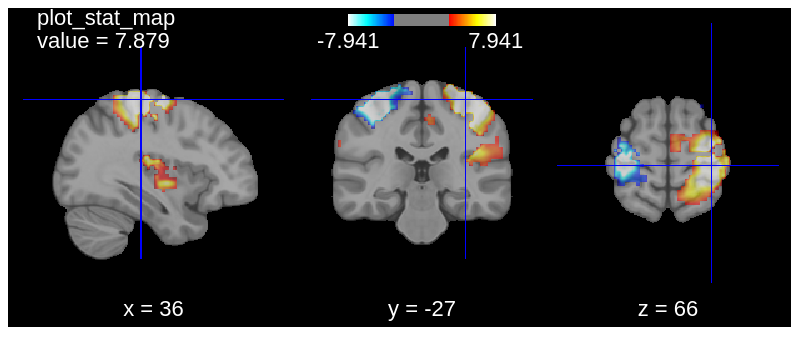
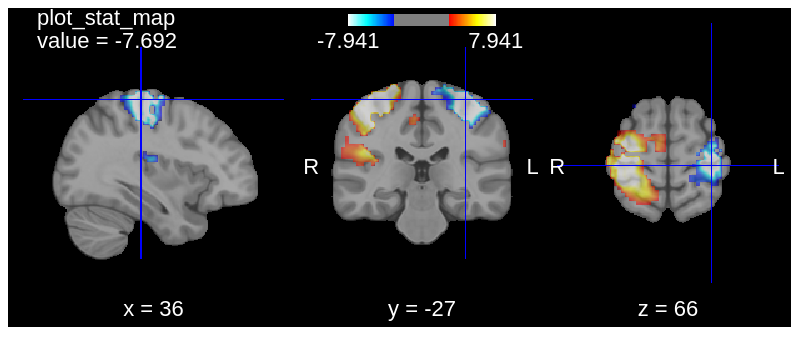
[ENH] Left Right Labels and accomodation of radiological view (#106)
* Update brainsprite.js

Added Left Right labels and Radiological view

* Update brainsprite.js

* Update brainsprite.min.js

minified version of updated brainsprite.js

* rm

* update minified

* update python tests

* modify example

* update

* fix

* recreate

* Update brainsprite.py

added radiological flipping in the python code

* Update brainsprite.py

passed radiological parameter from viewer substitute to data_to_sprite function

* doc

* fix

* update doc

* save image diff

---------

diff --git a/src/brainsprite/data/js/brainsprite.min.js b/src/brainsprite/data/js/brainsprite.min.js
@@ -1,2 +1,2 @@
 /*! brainsprite v0.14.3 */
-function displayFloat(t,e){var a=parseFloat(t).toFixed(e);return a.indexOf(".")===-1?a+".":a.replace(/0+$/,"")}function initBrain(t){var e={smooth:!1,flagValue:!1,colorBackground:"#000000",flagCoordinates:!1,origin:{X:0,Y:0,Z:0},voxelSize:1,affine:!1,heightColorBar:.04,sizeFont:.075,colorFont:"#FFFFFF",nbDecimals:3,crosshair:!1,colorCrosshair:"#0000FF",sizeCrosshair:.9,title:!1,numSlice:!1,onclick:""},a=Object.assign({},e,t);return typeof a.affine=="boolean"&&a.affine===!1&&(a.affine=[[a.voxelSize,0,0,-a.origin.X],[0,a.voxelSize,0,-a.origin.Y],[0,0,a.voxelSize,-a.origin.Z],[0,0,0,1]]),a.flagCoordinates?a.spaceFont=.1:a.spaceFont=0,a.coordinatesSlice={X:0,Y:0,Z:0},a.widthCanvas={X:0,Y:0,Z:0,max:0},a.heightCanvas={X:0,Y:0,Z:0,max:0},a}function initCanvas(t,e){return t.canvas=document.getElementById(e),t.context=t.canvas.getContext("2d"),t.context.imageSmoothingEnabled=t.smooth,t.canvasY=document.createElement("canvas"),t.contextY=t.canvasY.getContext("2d"),t.canvasZ=document.createElement("canvas"),t.contextZ=t.canvasZ.getContext("2d"),t.canvasRead=document.createElement("canvas"),t.contextRead=t.canvasRead.getContext("2d"),t.canvasRead.width=1,t.canvasRead.height=1,t.planes={},t.planes.canvasMaster=document.createElement("canvas"),t.planes.contextMaster=t.planes.canvasMaster.getContext("2d"),t}function initSprite(t,e,a){return t.sprite=document.getElementById(e),t.nbCol=t.sprite.width/a.Y,t.nbRow=t.sprite.height/a.Z,t.nbSlice={X:typeof a.X<"u"?a.X:t.nbCol*t.nbRow,Y:a.Y,Z:a.Z},t.numSlice===!1&&(t.numSlice={X:Math.floor(t.nbSlice.X/2),Y:Math.floor(t.nbSlice.Y/2),Z:Math.floor(t.nbSlice.Z/2)}),t}function initOverlay(t,e,a){return t.overlay.opacity=typeof t.overlay.opacity<"u"?t.overlay.opacity:1,t.overlay.sprite=document.getElementById(e),t.overlay.nbCol=t.overlay.sprite.width/a.Y,t.overlay.nbRow=t.overlay.sprite.height/a.Z,t.overlay.nbSlice={X:typeof a.X<"u"?a.X:t.overlay.nbCol*t.overlay.nbRow,Y:a.Y,Z:a.Z},t}function initColorMap(t){return t.hide=typeof t.hide<"u"?t.hide:!1,t.img=document.getElementById(t.img),t.canvas=document.createElement("canvas"),t.context=t.canvas.getContext("2d"),t.canvas.width=t.img.width,t.canvas.height=t.img.height,t.context.drawImage(t.img,0,0,t.img.width,t.img.height,0,0,t.img.width,t.img.height),t}function brainsprite(t){let e=initBrain(t);e=initCanvas(e,t.canvas),e=initSprite(e,t.sprite,t.nbSlice),t.overlay&&(e=initOverlay(e,t.overlay.sprite,t.overlay.nbSlice)),t.colorMap&&(e.colorMap=initColorMap(t.colorMap));let a=function(s,n){if(!n)return NaN;let i=NaN,l=1/0;const c=n.canvas.width,h=n.context.getImageData(0,0,c,1).data;for(let o=0;o<c;o++){const d=Math.abs(h[o*4]-s[0])+Math.abs(h[o*4+1]-s[1])+Math.abs(h[o*4+2]-s[2]);d<l&&(i=o,l=d)}return i*(n.max-n.min)/(c-1)+n.min},C=function(){const s={};if(e.overlay&&!e.nanValue)try{s.XW=Math.round(e.numSlice.X%e.nbCol),s.XH=Math.round((e.numSlice.X-s.XW)/e.nbCol),e.contextRead.clearRect(0,0,1,1),e.contextRead.drawImage(e.overlay.sprite,s.XW*e.nbSlice.Y+e.numSlice.Y,s.XH*e.nbSlice.Z+e.nbSlice.Z-e.numSlice.Z-1,1,1,0,0,1,1);const n=e.contextRead.getImageData(0,0,1,1).data;n[3]===0?e.voxelValue=NaN:e.voxelValue=a(n,e.colorMap)}catch(n){console.warn(n.message),e.nanValue=!0,e.voxelValue=NaN}else e.voxelValue=NaN},w=function(s,n,i){for(let l=0;l<3;++l)s[l]=i[0]*n[l][0]+i[1]*n[l][1]+i[2]*n[l][2]+i[3]*n[l][3]};const m=[0,0,0];let g=function(){w(m,e.affine,[e.numSlice.X+1,e.numSlice.Y+1,e.numSlice.Z+1,1]),e.coordinatesSlice.X=m[0],e.coordinatesSlice.Y=m[1],e.coordinatesSlice.Z=m[2]};return e.init=function(){let s=e.nbSlice.X,n=e.nbSlice.Y,i=e.nbSlice.Z;e.resize(),e.planes.canvasMaster.width=e.sprite.width,e.planes.canvasMaster.height=e.sprite.height,e.planes.contextMaster.globalAlpha=1,e.planes.contextMaster.drawImage(e.sprite,0,0,e.sprite.width,e.sprite.height,0,0,e.sprite.width,e.sprite.height),e.overlay&&(e.planes.contextMaster.globalAlpha=e.overlay.opacity,e.planes.contextMaster.drawImage(e.overlay.sprite,0,0,e.overlay.sprite.width,e.overlay.sprite.height,0,0,e.sprite.width,e.sprite.height)),e.planes.canvasX=document.createElement("canvas"),e.planes.contextX=e.planes.canvasX.getContext("2d"),e.planes.canvasX.width=n,e.planes.canvasX.height=i,e.planes.canvasY=document.createElement("canvas"),e.planes.contextY=e.planes.canvasY.getContext("2d"),e.planes.canvasY.width=s,e.planes.canvasY.height=i,e.planes.canvasZ=document.createElement("canvas"),e.planes.contextZ=e.planes.canvasZ.getContext("2d"),e.planes.canvasZ.width=s,e.planes.canvasZ.height=n,e.planes.contextZ.rotate(-Math.PI/2),e.planes.contextZ.translate(-n,0),C(),g(),e.numSlice.X=Math.round(e.numSlice.X),e.numSlice.Y=Math.round(e.numSlice.Y),e.numSlice.Z=Math.round(e.numSlice.Z)},e.resize=function(){let s=e.canvas.parentElement.clientWidth,n=e.nbSlice.X,i=e.nbSlice.Y,l=e.nbSlice.Z;const c=Math.floor(s*(i/(2*n+i))),h=Math.floor(s*(n/(2*n+i))),o=Math.floor(s*(n/(2*n+i)));if(c===e.widthCanvas.X&&h===e.widthCanvas.Y&&o===e.widthCanvas.Z)return!1;e.widthCanvas.X=c,e.widthCanvas.Y=h,e.widthCanvas.Z=o,e.widthCanvas.max=Math.max(c,h,o),e.heightCanvas.X=Math.floor(e.widthCanvas.X*l/i),e.heightCanvas.Y=Math.floor(e.widthCanvas.Y*l/n),e.heightCanvas.Z=Math.floor(e.widthCanvas.Z*i/n),e.heightCanvas.max=Math.max(e.heightCanvas.X,e.heightCanvas.Y,e.heightCanvas.Z);let d=e.widthCanvas.X+e.widthCanvas.Y+e.widthCanvas.Z;return e.canvas.width!==d&&(e.canvas.width=d,e.canvas.height=Math.round((1+e.spaceFont)*e.heightCanvas.max),e.context.imageSmoothingEnabled=e.smooth),e.sizeFontPixels=Math.round(e.sizeFont*e.heightCanvas.max),e.context.font=e.sizeFontPixels+"px Arial",!0},e.draw=function(s,n){let i={},l,c,h=Math.ceil((1-e.sizeCrosshair)*e.nbSlice.X/2),o=Math.ceil((1-e.sizeCrosshair)*e.nbSlice.Y/2),d=Math.ceil((1-e.sizeCrosshair)*e.nbSlice.Z/2),f=e.nbSlice.Y,u=e.nbSlice.Z,r;switch(n){case"X":if(i.XW=e.numSlice.X%e.nbCol,i.XH=(e.numSlice.X-i.XW)/e.nbCol,e.planes.contextX.drawImage(e.planes.canvasMaster,i.XW*f,i.XH*u,f,u,0,0,f,u),e.crosshair&&(e.planes.contextX.fillStyle=e.colorCrosshair,e.planes.contextX.fillRect(e.numSlice.Y,d,1,u-2*d),e.planes.contextX.fillRect(o,u-e.numSlice.Z-1,f-2*o,1)),e.context.fillStyle=e.colorBackground,e.context.fillRect(0,0,e.widthCanvas.X,e.canvas.height),e.context.drawImage(e.planes.canvasX,0,0,f,u,0,(e.heightCanvas.max-e.heightCanvas.X)/2,e.widthCanvas.X,e.heightCanvas.X),e.title&&(e.context.fillStyle=e.colorFont,e.context.fillText(e.title,Math.round(e.widthCanvas.X/10),Math.round(e.heightCanvas.max*e.heightColorBar+e.sizeFontPixels/4))),e.flagValue){const v=isNaN(e.voxelValue)?"no value":"value = "+displayFloat(e.voxelValue,e.nbDecimals);e.context.fillStyle=e.colorFont,e.context.fillText(v,Math.round(e.widthCanvas.X/10),Math.round(e.heightCanvas.max*e.heightColorBar*2+3/4*e.sizeFontPixels))}e.flagCoordinates&&(l="x = "+Math.round(e.coordinatesSlice.X),c=e.context.measureText(l).width,e.context.fillStyle=e.colorFont,e.context.fillText(l,e.widthCanvas.X/2-c/2,Math.round(e.canvas.height-e.sizeFontPixels/2)));break;case"Y":for(e.context.fillStyle=e.colorBackground,e.context.fillRect(e.widthCanvas.X,0,e.widthCanvas.Y,e.canvas.height),r=0;r<e.nbSlice.X;r++){let v=r%e.nbCol,x=(r-v)/e.nbCol;e.planes.contextY.drawImage(e.planes.canvasMaster,v*e.nbSlice.Y+e.numSlice.Y,x*e.nbSlice.Z,1,e.nbSlice.Z,r,0,1,e.nbSlice.Z)}if(e.crosshair&&(e.planes.contextY.fillStyle=e.colorCrosshair,e.planes.contextY.fillRect(e.numSlice.X,d,1,e.nbSlice.Z-2*d),e.planes.contextY.fillRect(h,e.nbSlice.Z-e.numSlice.Z-1,e.nbSlice.X-2*h,1)),e.context.drawImage(e.planes.canvasY,0,0,e.nbSlice.X,e.nbSlice.Z,e.widthCanvas.X,(e.heightCanvas.max-e.heightCanvas.Y)/2,e.widthCanvas.Y,e.heightCanvas.Y),e.colorMap&&!e.colorMap.hide){e.context.drawImage(e.colorMap.img,0,0,e.colorMap.img.width,1,Math.round(e.widthCanvas.X+e.widthCanvas.Y*.2),Math.round(e.heightCanvas.max*e.heightColorBar/2),Math.round(e.widthCanvas.Y*.6),Math.round(e.heightCanvas.max*e.heightColorBar)),e.context.fillStyle=e.colorFont;const v=displayFloat(e.colorMap.min,e.nbDecimals),x=displayFloat(e.colorMap.max,e.nbDecimals);e.context.fillText(v,e.widthCanvas.X+e.widthCanvas.Y*.2-e.context.measureText(v).width/2,Math.round(e.heightCanvas.max*e.heightColorBar*2+3/4*e.sizeFontPixels)),e.context.fillText(x,e.widthCanvas.X+e.widthCanvas.Y*.8-e.context.measureText(x).width/2,Math.round(e.heightCanvas.max*e.heightColorBar*2+3/4*e.sizeFontPixels))}e.flagCoordinates&&(e.context.font=e.sizeFontPixels+"px Arial",e.context.fillStyle=e.colorFont,l="y = "+Math.round(e.coordinatesSlice.Y),c=e.context.measureText(l).width,e.context.fillText(l,e.widthCanvas.X+e.widthCanvas.Y/2-c/2,Math.round(e.canvas.height-e.sizeFontPixels/2)));break;case"Z":for(e.context.fillStyle=e.colorBackground,e.context.fillRect(e.widthCanvas.X+e.widthCanvas.Y,0,e.widthCanvas.Z,e.canvas.height),r=0;r<e.nbSlice.X;r++){let v=r%e.nbCol,x=(r-v)/e.nbCol;e.planes.contextZ.drawImage(e.planes.canvasMaster,v*e.nbSlice.Y,x*e.nbSlice.Z+e.nbSlice.Z-e.numSlice.Z-1,e.nbSlice.Y,1,0,r,e.nbSlice.Y,1)}e.crosshair&&(e.planes.contextZ.fillStyle=e.colorCrosshair,e.planes.contextZ.fillRect(o,e.numSlice.X,e.nbSlice.Y-2*o,1),e.planes.contextZ.fillRect(e.numSlice.Y,h,1,e.nbSlice.X-2*h)),e.context.drawImage(e.planes.canvasZ,0,0,e.nbSlice.X,e.nbSlice.Y,e.widthCanvas.X+e.widthCanvas.Y,(e.heightCanvas.max-e.heightCanvas.Z)/2,e.widthCanvas.Z,e.heightCanvas.Z),e.flagCoordinates&&(l="z = "+Math.round(e.coordinatesSlice.Z),c=e.context.measureText(l).width,e.context.fillStyle=e.colorFont,e.context.fillText(l,e.widthCanvas.X+e.widthCanvas.Y+e.widthCanvas.Z/2-c/2,Math.round(e.canvas.height-e.sizeFontPixels/2)))}},e.clickBrain=function(s){let n=e.canvas.getBoundingClientRect(),i=s.clientX-n.left,l=s.clientY-n.top,c,h;if(i<e.widthCanvas.X)c=Math.round((e.nbSlice.Y-1)*(i/e.widthCanvas.X)),h=Math.round((e.nbSlice.Z-1)*((e.heightCanvas.max+e.heightCanvas.X)/2-l)/e.heightCanvas.X),e.numSlice.Y=Math.max(Math.min(c,e.nbSlice.Y-1),0),e.numSlice.Z=Math.max(Math.min(h,e.nbSlice.Z-1),0);else if(i<e.widthCanvas.X+e.widthCanvas.Y){i=i-e.widthCanvas.X;let o=Math.round((e.nbSlice.X-1)*(i/e.widthCanvas.Y)),d=Math.round((e.nbSlice.Z-1)*((e.heightCanvas.max+e.heightCanvas.X)/2-l)/e.heightCanvas.X);e.numSlice.X=Math.max(Math.min(o,e.nbSlice.X-1),0),e.numSlice.Z=Math.max(Math.min(d,e.nbSlice.Z-1),0)}else{i=i-e.widthCanvas.X-e.widthCanvas.Y;let o=Math.round((e.nbSlice.X-1)*(i/e.widthCanvas.Z)),d=Math.round((e.nbSlice.Y-1)*((e.heightCanvas.max+e.heightCanvas.Z)/2-l)/e.heightCanvas.Z);e.numSlice.X=Math.max(Math.min(o,e.nbSlice.X-1),0),e.numSlice.Y=Math.max(Math.min(d,e.nbSlice.Y-1),0)}C(),g(),e.drawAll(),e.onclick&&e.onclick(s)},e.drawAll=function(){e.draw(e.numSlice.X,"X"),e.draw(e.numSlice.Y,"Y"),e.draw(e.numSlice.Z,"Z")},e.canvas.addEventListener("click",e.clickBrain,!1),e.canvas.addEventListener("mousedown",function(){e.canvas.addEventListener("mousemove",e.clickBrain,!1)},!1),e.canvas.addEventListener("mouseup",function(){e.canvas.removeEventListener("mousemove",e.clickBrain,!1)},!1),e.sprite.addEventListener("load",function(){e.init(),e.drawAll()}),e.overlay&&e.overlay.sprite.addEventListener("load",function(){e.init(),e.drawAll()}),e.init(),e.drawAll(),window.addEventListener("resize",function(){e.resize()&&e.drawAll()}),e}
+function displayFloat(t,e){var a=parseFloat(t).toFixed(e);return a.indexOf(".")===-1?a+".":a.replace(/0+$/,"")}function initBrain(t){var e={smooth:!1,flagValue:!1,colorBackground:"#000000",flagCoordinates:!1,origin:{X:0,Y:0,Z:0},voxelSize:1,affine:!1,heightColorBar:.04,sizeFont:.075,colorFont:"#FFFFFF",nbDecimals:3,crosshair:!1,colorCrosshair:"#0000FF",sizeCrosshair:.9,title:!1,numSlice:!1,onclick:"",radiological:!1,showLR:!0},a=Object.assign({},e,t);return typeof a.affine=="boolean"&&a.affine===!1&&(a.affine=[[a.voxelSize,0,0,-a.origin.X],[0,a.voxelSize,0,-a.origin.Y],[0,0,a.voxelSize,-a.origin.Z],[0,0,0,1]]),a.flagCoordinates?a.spaceFont=.1:a.spaceFont=0,a.coordinatesSlice={X:0,Y:0,Z:0},a.widthCanvas={X:0,Y:0,Z:0,max:0},a.heightCanvas={X:0,Y:0,Z:0,max:0},a}function initCanvas(t,e){return t.canvas=document.getElementById(e),t.context=t.canvas.getContext("2d"),t.context.imageSmoothingEnabled=t.smooth,t.canvasY=document.createElement("canvas"),t.contextY=t.canvasY.getContext("2d"),t.canvasZ=document.createElement("canvas"),t.contextZ=t.canvasZ.getContext("2d"),t.canvasRead=document.createElement("canvas"),t.contextRead=t.canvasRead.getContext("2d"),t.canvasRead.width=1,t.canvasRead.height=1,t.planes={},t.planes.canvasMaster=document.createElement("canvas"),t.planes.contextMaster=t.planes.canvasMaster.getContext("2d"),t}function initSprite(t,e,a){return t.sprite=document.getElementById(e),t.nbCol=t.sprite.width/a.Y,t.nbRow=t.sprite.height/a.Z,t.nbSlice={X:typeof a.X<"u"?a.X:t.nbCol*t.nbRow,Y:a.Y,Z:a.Z},t.numSlice===!1&&(t.numSlice={X:Math.floor(t.nbSlice.X/2),Y:Math.floor(t.nbSlice.Y/2),Z:Math.floor(t.nbSlice.Z/2)}),t}function initOverlay(t,e,a){return t.overlay.opacity=typeof t.overlay.opacity<"u"?t.overlay.opacity:1,t.overlay.sprite=document.getElementById(e),t.overlay.nbCol=t.overlay.sprite.width/a.Y,t.overlay.nbRow=t.overlay.sprite.height/a.Z,t.overlay.nbSlice={X:typeof a.X<"u"?a.X:t.overlay.nbCol*t.overlay.nbRow,Y:a.Y,Z:a.Z},t}function initColorMap(t){return t.hide=typeof t.hide<"u"?t.hide:!1,t.img=document.getElementById(t.img),t.canvas=document.createElement("canvas"),t.context=t.canvas.getContext("2d"),t.canvas.width=t.img.width,t.canvas.height=t.img.height,t.context.drawImage(t.img,0,0,t.img.width,t.img.height,0,0,t.img.width,t.img.height),t}function brainsprite(t){let e=initBrain(t);e=initCanvas(e,t.canvas),e=initSprite(e,t.sprite,t.nbSlice),t.overlay&&(e=initOverlay(e,t.overlay.sprite,t.overlay.nbSlice)),t.colorMap&&(e.colorMap=initColorMap(t.colorMap));let a=function(o,n){if(!n)return NaN;let i=NaN,l=1/0;const c=n.canvas.width,d=n.context.getImageData(0,0,c,1).data;for(let s=0;s<c;s++){const r=Math.abs(d[s*4]-o[0])+Math.abs(d[s*4+1]-o[1])+Math.abs(d[s*4+2]-o[2]);r<l&&(i=s,l=r)}return i*(n.max-n.min)/(c-1)+n.min},p=function(){const o={};if(e.overlay&&!e.nanValue)try{o.XW=Math.round(e.numSlice.X%e.nbCol),o.XH=Math.round((e.numSlice.X-o.XW)/e.nbCol),e.contextRead.clearRect(0,0,1,1),e.contextRead.drawImage(e.overlay.sprite,o.XW*e.nbSlice.Y+e.numSlice.Y,o.XH*e.nbSlice.Z+e.nbSlice.Z-e.numSlice.Z-1,1,1,0,0,1,1);const n=e.contextRead.getImageData(0,0,1,1).data;n[3]===0?e.voxelValue=NaN:e.voxelValue=a(n,e.colorMap)}catch(n){console.warn(n.message),e.nanValue=!0,e.voxelValue=NaN}else e.voxelValue=NaN},M=function(o,n,i){for(let l=0;l<3;++l)o[l]=i[0]*n[l][0]+i[1]*n[l][1]+i[2]*n[l][2]+i[3]*n[l][3]};const C=[0,0,0];let Z=function(){M(C,e.affine,[e.numSlice.X+1,e.numSlice.Y+1,e.numSlice.Z+1,1]),e.coordinatesSlice.X=C[0],e.coordinatesSlice.Y=C[1],e.coordinatesSlice.Z=C[2]};return e.init=function(){let o=e.nbSlice.X,n=e.nbSlice.Y,i=e.nbSlice.Z;e.resize(),e.planes.canvasMaster.width=e.sprite.width,e.planes.canvasMaster.height=e.sprite.height,e.planes.contextMaster.globalAlpha=1,e.planes.contextMaster.drawImage(e.sprite,0,0,e.sprite.width,e.sprite.height,0,0,e.sprite.width,e.sprite.height),e.overlay&&(e.planes.contextMaster.globalAlpha=e.overlay.opacity,e.planes.contextMaster.drawImage(e.overlay.sprite,0,0,e.overlay.sprite.width,e.overlay.sprite.height,0,0,e.sprite.width,e.sprite.height)),e.planes.canvasX=document.createElement("canvas"),e.planes.contextX=e.planes.canvasX.getContext("2d"),e.planes.canvasX.width=n,e.planes.canvasX.height=i,e.planes.canvasY=document.createElement("canvas"),e.planes.contextY=e.planes.canvasY.getContext("2d"),e.planes.canvasY.width=o,e.planes.canvasY.height=i,e.planes.canvasZ=document.createElement("canvas"),e.planes.contextZ=e.planes.canvasZ.getContext("2d"),e.planes.canvasZ.width=o,e.planes.canvasZ.height=n,e.planes.contextZ.rotate(-Math.PI/2),e.planes.contextZ.translate(-n,0),p(),Z(),e.numSlice.X=Math.round(e.numSlice.X),e.numSlice.Y=Math.round(e.numSlice.Y),e.numSlice.Z=Math.round(e.numSlice.Z)},e.resize=function(){let o=e.canvas.parentElement.clientWidth,n=e.nbSlice.X,i=e.nbSlice.Y,l=e.nbSlice.Z;const c=Math.floor(o*(i/(2*n+i))),d=Math.floor(o*(n/(2*n+i))),s=Math.floor(o*(n/(2*n+i)));if(c===e.widthCanvas.X&&d===e.widthCanvas.Y&&s===e.widthCanvas.Z)return!1;e.widthCanvas.X=c,e.widthCanvas.Y=d,e.widthCanvas.Z=s,e.widthCanvas.max=Math.max(c,d,s),e.heightCanvas.X=Math.floor(e.widthCanvas.X*l/i),e.heightCanvas.Y=Math.floor(e.widthCanvas.Y*l/n),e.heightCanvas.Z=Math.floor(e.widthCanvas.Z*i/n),e.heightCanvas.max=Math.max(e.heightCanvas.X,e.heightCanvas.Y,e.heightCanvas.Z);let r=e.widthCanvas.X+e.widthCanvas.Y+e.widthCanvas.Z;return e.canvas.width!==r&&(e.canvas.width=r,e.canvas.height=Math.round((1+e.spaceFont)*e.heightCanvas.max),e.context.imageSmoothingEnabled=e.smooth),e.sizeFontPixels=Math.round(e.sizeFont*e.heightCanvas.max),e.context.font=e.sizeFontPixels+"px Arial",!0},e.draw=function(o,n){let i={},l,c,d=Math.ceil((1-e.sizeCrosshair)*e.nbSlice.X/2),s=Math.ceil((1-e.sizeCrosshair)*e.nbSlice.Y/2),r=Math.ceil((1-e.sizeCrosshair)*e.nbSlice.Z/2),u=e.nbSlice.Y,f=e.nbSlice.Z,v;switch(n){case"X":if(i.XW=e.numSlice.X%e.nbCol,i.XH=(e.numSlice.X-i.XW)/e.nbCol,e.planes.contextX.drawImage(e.planes.canvasMaster,i.XW*u,i.XH*f,u,f,0,0,u,f),e.crosshair&&(e.planes.contextX.fillStyle=e.colorCrosshair,e.planes.contextX.fillRect(e.numSlice.Y,r,1,f-2*r),e.planes.contextX.fillRect(s,f-e.numSlice.Z-1,u-2*s,1)),e.context.fillStyle=e.colorBackground,e.context.fillRect(0,0,e.widthCanvas.X,e.canvas.height),e.context.drawImage(e.planes.canvasX,0,0,u,f,0,(e.heightCanvas.max-e.heightCanvas.X)/2,e.widthCanvas.X,e.heightCanvas.X),e.title&&(e.context.fillStyle=e.colorFont,e.context.fillText(e.title,Math.round(e.widthCanvas.X/10),Math.round(e.heightCanvas.max*e.heightColorBar+e.sizeFontPixels/4))),e.flagValue){const h=isNaN(e.voxelValue)?"no value":"value = "+displayFloat(e.voxelValue,e.nbDecimals);e.context.fillStyle=e.colorFont,e.context.fillText(h,Math.round(e.widthCanvas.X/10),Math.round(e.heightCanvas.max*e.heightColorBar*2+3/4*e.sizeFontPixels))}e.flagCoordinates&&(l="x = "+Math.round(e.coordinatesSlice.X),c=e.context.measureText(l).width,e.context.fillStyle=e.colorFont,e.context.fillText(l,e.widthCanvas.X/2-c/2,Math.round(e.canvas.height-e.sizeFontPixels/2)));break;case"Y":for(e.context.fillStyle=e.colorBackground,e.context.fillRect(e.widthCanvas.X,0,e.widthCanvas.Y,e.canvas.height),v=0;v<e.nbSlice.X;v++){let h=v%e.nbCol,x=(v-h)/e.nbCol;e.planes.contextY.drawImage(e.planes.canvasMaster,h*e.nbSlice.Y+e.numSlice.Y,x*e.nbSlice.Z,1,e.nbSlice.Z,v,0,1,e.nbSlice.Z)}if(e.crosshair&&(e.planes.contextY.fillStyle=e.colorCrosshair,e.planes.contextY.fillRect(e.numSlice.X,r,1,e.nbSlice.Z-2*r),e.planes.contextY.fillRect(d,e.nbSlice.Z-e.numSlice.Z-1,e.nbSlice.X-2*d,1)),e.context.drawImage(e.planes.canvasY,0,0,e.nbSlice.X,e.nbSlice.Z,e.widthCanvas.X,(e.heightCanvas.max-e.heightCanvas.Y)/2,e.widthCanvas.Y,e.heightCanvas.Y),e.colorMap&&!e.colorMap.hide){e.context.drawImage(e.colorMap.img,0,0,e.colorMap.img.width,1,Math.round(e.widthCanvas.X+e.widthCanvas.Y*.2),Math.round(e.heightCanvas.max*e.heightColorBar/2),Math.round(e.widthCanvas.Y*.6),Math.round(e.heightCanvas.max*e.heightColorBar)),e.context.fillStyle=e.colorFont;const h=displayFloat(e.colorMap.min,e.nbDecimals),x=displayFloat(e.colorMap.max,e.nbDecimals);e.context.fillText(h,e.widthCanvas.X+e.widthCanvas.Y*.2-e.context.measureText(h).width/2,Math.round(e.heightCanvas.max*e.heightColorBar*2+3/4*e.sizeFontPixels)),e.context.fillText(x,e.widthCanvas.X+e.widthCanvas.Y*.8-e.context.measureText(x).width/2,Math.round(e.heightCanvas.max*e.heightColorBar*2+3/4*e.sizeFontPixels))}if(e.flagCoordinates&&(e.context.font=e.sizeFontPixels+"px Arial",e.context.fillStyle=e.colorFont,l="y = "+Math.round(e.coordinatesSlice.Y),c=e.context.measureText(l).width,e.context.fillText(l,e.widthCanvas.X+e.widthCanvas.Y/2-c/2,Math.round(e.canvas.height-e.sizeFontPixels/2))),e.showLR){const h=!!e.radiological,x=Math.round(e.canvas.height/2),{font:m,textAlign:w,textBaseline:S}=e.context;e.context.font=`${e.sizeFontPixels}px Arial`,e.context.textAlign="center",e.context.textBaseline="middle",e.context.fillStyle=e.colorFont;const X=h?"R":"L",Y=h?"L":"R",g=e.widthCanvas.Y*.05;e.context.fillText(X,e.widthCanvas.X+g,x),e.context.fillText(Y,e.widthCanvas.X+e.widthCanvas.Y-g,x),e.context.font=m,e.context.textAlign=w,e.context.textBaseline=S}break;case"Z":for(e.context.fillStyle=e.colorBackground,e.context.fillRect(e.widthCanvas.X+e.widthCanvas.Y,0,e.widthCanvas.Z,e.canvas.height),v=0;v<e.nbSlice.X;v++){let h=v%e.nbCol,x=(v-h)/e.nbCol;e.planes.contextZ.drawImage(e.planes.canvasMaster,h*e.nbSlice.Y,x*e.nbSlice.Z+e.nbSlice.Z-e.numSlice.Z-1,e.nbSlice.Y,1,0,v,e.nbSlice.Y,1)}if(e.crosshair&&(e.planes.contextZ.fillStyle=e.colorCrosshair,e.planes.contextZ.fillRect(s,e.numSlice.X,e.nbSlice.Y-2*s,1),e.planes.contextZ.fillRect(e.numSlice.Y,d,1,e.nbSlice.X-2*d)),e.context.drawImage(e.planes.canvasZ,0,0,e.nbSlice.X,e.nbSlice.Y,e.widthCanvas.X+e.widthCanvas.Y,(e.heightCanvas.max-e.heightCanvas.Z)/2,e.widthCanvas.Z,e.heightCanvas.Z),e.flagCoordinates&&(l="z = "+Math.round(e.coordinatesSlice.Z),c=e.context.measureText(l).width,e.context.fillStyle=e.colorFont,e.context.fillText(l,e.widthCanvas.X+e.widthCanvas.Y+e.widthCanvas.Z/2-c/2,Math.round(e.canvas.height-e.sizeFontPixels/2))),e.showLR){const h=!!e.radiological,x=Math.round(e.canvas.height/2),{font:m,textAlign:w,textBaseline:S}=e.context;e.context.font=`${e.sizeFontPixels}px Arial`,e.context.textAlign="center",e.context.textBaseline="middle",e.context.fillStyle=e.colorFont;const X=h?"R":"L",Y=h?"L":"R",g=e.widthCanvas.Y*.05;e.context.fillText(X,e.widthCanvas.X+e.widthCanvas.Y+g,x),e.context.fillText(Y,e.widthCanvas.X+e.widthCanvas.Y+e.widthCanvas.Z-g,x),e.context.font=m,e.context.textAlign=w,e.context.textBaseline=S}}},e.clickBrain=function(o){let n=e.canvas.getBoundingClientRect(),i=o.clientX-n.left,l=o.clientY-n.top,c,d;if(i<e.widthCanvas.X)c=Math.round((e.nbSlice.Y-1)*(i/e.widthCanvas.X)),d=Math.round((e.nbSlice.Z-1)*((e.heightCanvas.max+e.heightCanvas.X)/2-l)/e.heightCanvas.X),e.numSlice.Y=Math.max(Math.min(c,e.nbSlice.Y-1),0),e.numSlice.Z=Math.max(Math.min(d,e.nbSlice.Z-1),0);else if(i<e.widthCanvas.X+e.widthCanvas.Y){i=i-e.widthCanvas.X;let s=Math.round((e.nbSlice.X-1)*(i/e.widthCanvas.Y)),r=Math.round((e.nbSlice.Z-1)*((e.heightCanvas.max+e.heightCanvas.X)/2-l)/e.heightCanvas.X);e.numSlice.X=Math.max(Math.min(s,e.nbSlice.X-1),0),e.numSlice.Z=Math.max(Math.min(r,e.nbSlice.Z-1),0)}else{i=i-e.widthCanvas.X-e.widthCanvas.Y;let s=Math.round((e.nbSlice.X-1)*(i/e.widthCanvas.Z)),r=Math.round((e.nbSlice.Y-1)*((e.heightCanvas.max+e.heightCanvas.Z)/2-l)/e.heightCanvas.Z);e.numSlice.X=Math.max(Math.min(s,e.nbSlice.X-1),0),e.numSlice.Y=Math.max(Math.min(r,e.nbSlice.Y-1),0)}p(),Z(),e.drawAll(),e.onclick&&e.onclick(o)},e.drawAll=function(){e.draw(e.numSlice.X,"X"),e.draw(e.numSlice.Y,"Y"),e.draw(e.numSlice.Z,"Z")},e.canvas.addEventListener("click",e.clickBrain,!1),e.canvas.addEventListener("mousedown",function(){e.canvas.addEventListener("mousemove",e.clickBrain,!1)},!1),e.canvas.addEventListener("mouseup",function(){e.canvas.removeEventListener("mousemove",e.clickBrain,!1)},!1),e.sprite.addEventListener("load",function(){e.init(),e.drawAll()}),e.overlay&&e.overlay.sprite.addEventListener("load",function(){e.init(),e.drawAll()}),e.init(),e.drawAll(),window.addEventListener("resize",function(){e.resize()&&e.drawAll()}),e}

diff --git a/brainsprite.js b/brainsprite.js
@@ -24,6 +24,8 @@ function initBrain (params) {
     title: false,
     numSlice: false,
     onclick: '',
+    radiological: false,
+    showLR: true,
   }
   var brain = Object.assign({}, defaultParams, params)
 
@@ -161,6 +163,8 @@ function initColorMap (colorMap) {
  * @param {string} params.onclick command to call on click.
  * @param {object} params.colormap object. if false, no colormap.
  * @param {boolean} params.nanValue unable to read values.
+ * @param {boolean} params.radiological If true plot sections as a radiological view.
+ * @param {boolean} params.showLR: If true, positions and left/right annotation are added to the plot.
  * @return {object} a brainsprite viewer object.
  */
 function brainsprite(params) {
@@ -485,6 +489,32 @@ function brainsprite(params) {
           (brain.widthCanvas.Y / 2) - coordWidth / 2,
           Math.round(brain.canvas.height - (brain.sizeFontPixels / 2)))
         }
+
+        if (brain.showLR) {
+          const isRadiological = !!brain.radiological
+          const centerY = Math.round(brain.canvas.height / 2)
+        
+          const { font, textAlign, textBaseline } = brain.context
+        
+          brain.context.font = `${brain.sizeFontPixels}px Arial`
+          brain.context.textAlign = 'center'
+          brain.context.textBaseline = 'middle'
+          brain.context.fillStyle = brain.colorFont
+        
+          const labelLeft = isRadiological ? 'R' : 'L'
+          const labelRight = isRadiological ? 'L' : 'R'
+        
+          const paddingRatio = 0.05  // 5% from each side
+          const offsetX = brain.widthCanvas.Y * paddingRatio
+        
+          brain.context.fillText(labelLeft, brain.widthCanvas.X + offsetX, centerY)
+          brain.context.fillText(labelRight, brain.widthCanvas.X + brain.widthCanvas.Y - offsetX, centerY)
+        
+          brain.context.font = font
+          brain.context.textAlign = textAlign
+          brain.context.textBaseline = textBaseline
+        }
+
         break
 
       case 'Z':
@@ -523,6 +553,31 @@ function brainsprite(params) {
           brain.context.fillText(coord, brain.widthCanvas.X +
           brain.widthCanvas.Y + (brain.widthCanvas.Z / 2) - coordWidth / 2,
           Math.round(brain.canvas.height - (brain.sizeFontPixels / 2)))
+        }
+
+        if (brain.showLR) {
+          const isRadiological = !!brain.radiological
+          const centerY = Math.round(brain.canvas.height / 2)
+        
+          const { font, textAlign, textBaseline } = brain.context
+        
+          brain.context.font = `${brain.sizeFontPixels}px Arial`
+          brain.context.textAlign = 'center'
+          brain.context.textBaseline = 'middle'
+          brain.context.fillStyle = brain.colorFont
+        
+          const labelLeft = isRadiological ? 'R' : 'L'
+          const labelRight = isRadiological ? 'L' : 'R'
+        
+          const paddingRatio = 0.05  // 5% from each side
+          const offsetX = brain.widthCanvas.Y * paddingRatio
+        
+          brain.context.fillText(labelLeft, brain.widthCanvas.X + brain.widthCanvas.Y + offsetX, centerY)
+          brain.context.fillText(labelRight, brain.widthCanvas.X + brain.widthCanvas.Y + brain.widthCanvas.Z - offsetX, centerY)
+        
+          brain.context.font = font
+          brain.context.textAlign = textAlign
+          brain.context.textBaseline = textBaseline
         }
     }
   }

diff --git a/src/brainsprite/data/js/brainsprite_template.js b/src/brainsprite/data/js/brainsprite_template.js
@@ -32,5 +32,7 @@
     min: {{min}},
     max: {{max}},
     hide: {{colorbar}}
-  }
+  },
+  radiological: {{radiological}},
+  showLR: {{showLR}},
 }

diff --git a/src/brainsprite/brainsprite.py b/src/brainsprite/brainsprite.py
@@ -22,7 +22,7 @@ from nilearn.plotting.img_plotting import load_anat
 from nilearn.plotting.js_plotting_utils import colorscale
 
 
-def _data_to_sprite(data):
+def _data_to_sprite(data, radiological=False):
     """Convert a 3D array into a sprite of sagittal slices.
     Returns: sprite (2D numpy array)
     If each sagittal slice is nz (height) x ny (width) pixels, the sprite
@@ -37,12 +37,20 @@ def _data_to_sprite(data):
     sprite = np.zeros((nrows * nz, ncolumns * ny))
     indrow, indcol = np.where(np.ones((nrows, ncolumns)))
 
-    for xx in range(nx):
-        # we need to flip the image in the x axis
-        sprite[
-            (indrow[xx] * nz) : ((indrow[xx] + 1) * nz),
-            (indcol[xx] * ny) : ((indcol[xx] + 1) * ny),
-        ] = data[xx, :, ::-1].transpose()
+    if radiological:
+        for xx in range(nx):
+            # we need to flip the image in the x axis
+            sprite[
+                (indrow[xx] * nz) : ((indrow[xx] + 1) * nz),
+                (indcol[xx] * ny) : ((indcol[xx] + 1) * ny),
+            ] = data[nx - xx - 1, :, ::-1].transpose()
+    else:
+        for xx in range(nx):
+            # we need to flip the image in the x axis
+            sprite[
+                (indrow[xx] * nz) : ((indrow[xx] + 1) * nz),
+                (indcol[xx] * ny) : ((indcol[xx] + 1) * ny),
+            ] = data[xx, :, ::-1].transpose()
 
     return sprite
 
@@ -191,16 +199,18 @@ def _get_cut_slices(stat_map_img, cut_coords=None, threshold=None):
     return cut_slices
 
 
-def _save_sprite(img, vmax, vmin, output_sprite=None, mask=None, cmap="Grays", format="png"):
+def _save_sprite(
+    img, vmax, vmin, output_sprite=None, mask=None, cmap="Grays", format="png", radiological=False
+):
     """Generate a sprite from a 3D Niimg-like object.
     Returns: sprite.
     """
     # Create sprite
-    sprite = _data_to_sprite(safe_get_data(img, ensure_finite=True))
+    sprite = _data_to_sprite(safe_get_data(img, ensure_finite=True), radiological)
 
     # Mask the sprite
     if mask is not None:
-        mask = _data_to_sprite(safe_get_data(mask, ensure_finite=True))
+        mask = _data_to_sprite(safe_get_data(mask, ensure_finite=True), radiological)
         sprite = np.ma.array(sprite, mask=mask)
 
     # Save the sprite
@@ -307,6 +317,8 @@ class viewer_substitute:
         If the flag is off, the sprites (and the colorbar) will be saved in
         files named based on parameters sprite, sprite_overlay and img_colorMap.
     :type base64: boolean (default True)
+    :type radiological: boolean (default False)
+    :type showLR: boolean (default True)
 
     :return bsprite: a brainsprite viewer template substitution tool.
 
@@ -334,6 +346,8 @@ class viewer_substitute:
         opacity=1,
         value=True,
         base64=True,
+        radiological=False,
+        showLR=True,
     ):
         """Set up default attributes for the class."""
         self.canvas = canvas
@@ -356,6 +370,8 @@ class viewer_substitute:
         self.opacity = opacity
         self.value = value
         self.base64 = base64
+        self.radiological = radiological
+        self.showLR = showLR
 
     def fit(self, stat_map_img, bg_img="MNI152"):
         """Generate sprite and meta-data from a brain volume. Also optionally
@@ -508,6 +524,7 @@ class viewer_substitute:
                 vmax=self.bg_max_,
                 vmin=self.bg_min_,
                 cmap="gray",
+                radiological=self.radiological,
             ),
             overlay_base64=_save_sprite(
                 output_sprite=file_overlay,
@@ -516,6 +533,7 @@ class viewer_substitute:
                 vmin=self.colors_["vmin"],
                 mask=mask_img,
                 cmap=self.cmap,
+                radiological=self.radiological,
             ),
             colormap_base64=_save_cm(
                 output_cmap=file_colormap, cmap=self.colors_["cmap"], format="png"
@@ -555,4 +573,6 @@ class viewer_substitute:
             min=self.colors_["vmin"],
             max=self.colors_["vmax"],
             colorbar=float(not self.colorbar),
+            radiological=float(self.radiological),
+            showLR=float(self.showLR),
         )

diff --git a/tests/python/test_brainsprite.py b/tests/python/test_brainsprite.py
@@ -245,6 +245,33 @@ def test_viewer_substitute():
     ), f"the following warnings were not expected: {warnings_set.difference(expected_set)}"
 
 
+def test_viewer_substitute_radiological():
+    mni = datasets.load_mni152_template()
+
+    # Create a fake functional image by resample the template
+    img = image.resample_img(mni, target_affine=3 * np.eye(3))
+
+    file_template = Path(__file__).resolve().parent / "data" / "html" / "viewer_template.html"
+
+    template = tempita.Template.from_filename(file_template, encoding="utf-8")
+
+    bsprite = bp.viewer_substitute(
+        cmap="gray",
+        symmetric_cmap=False,
+        black_bg=True,
+        threshold=None,
+        vmax=250,
+        title="Slice viewer",
+        value=False,
+        radiological=False,
+        showLR=False,
+    )
+    bsprite.fit(img)
+    viewer = bsprite.transform(template, javascript="js", html="html", library="bsprite")
+
+    _check_html(viewer)
+
+
 def _check_html(html_view):
     """Check the presence of some expected code in the html viewer."""
     assert isinstance(html_view, bp.StatMapView)

diff --git a/examples/plot_stat_map.py b/examples/plot_stat_map.py
@@ -28,7 +28,11 @@ stat_img = motor_images.images[0]
 from brainsprite import viewer_substitute
 
 bsprite = viewer_substitute(
-    threshold=3, opacity=0.5, title="plot_stat_map", cut_coords=[36, -27, 66]
+    threshold=3,
+    opacity=0.5,
+    title="plot_stat_map",
+    cut_coords=[36, -27, 66],
+    radiological=True,
 )
 bsprite.fit(stat_img, bg_img=anat)
 

diff --git a/examples/plot_anat.py b/examples/plot_anat.py
@@ -46,6 +46,7 @@ bsprite = viewer_substitute(
     vmax=250,
     title="anatomical scan",
     value=False,
+    radiological=False,
 )
 bsprite.fit(haxby_anat_filename)
 

diff --git a/README.md b/README.md
@@ -6,5 +6,3 @@
 # Brainsprite
 
 Brainsprite is a library to incorporate interactive brain viewers in html web documents. Brainsprite is composed of two components: a javascript rendering engine, and a python API used to populate an html template with all necessary data and meta data. The documentation of the project can be found on https://brainsprite.github.io
-
-

diff --git a/CONTRIBUTING.md b/CONTRIBUTING.md
@@ -5,6 +5,7 @@
 ### Javascript
 
 ```bash
+pip install tox
 make coverage
 ```
 
